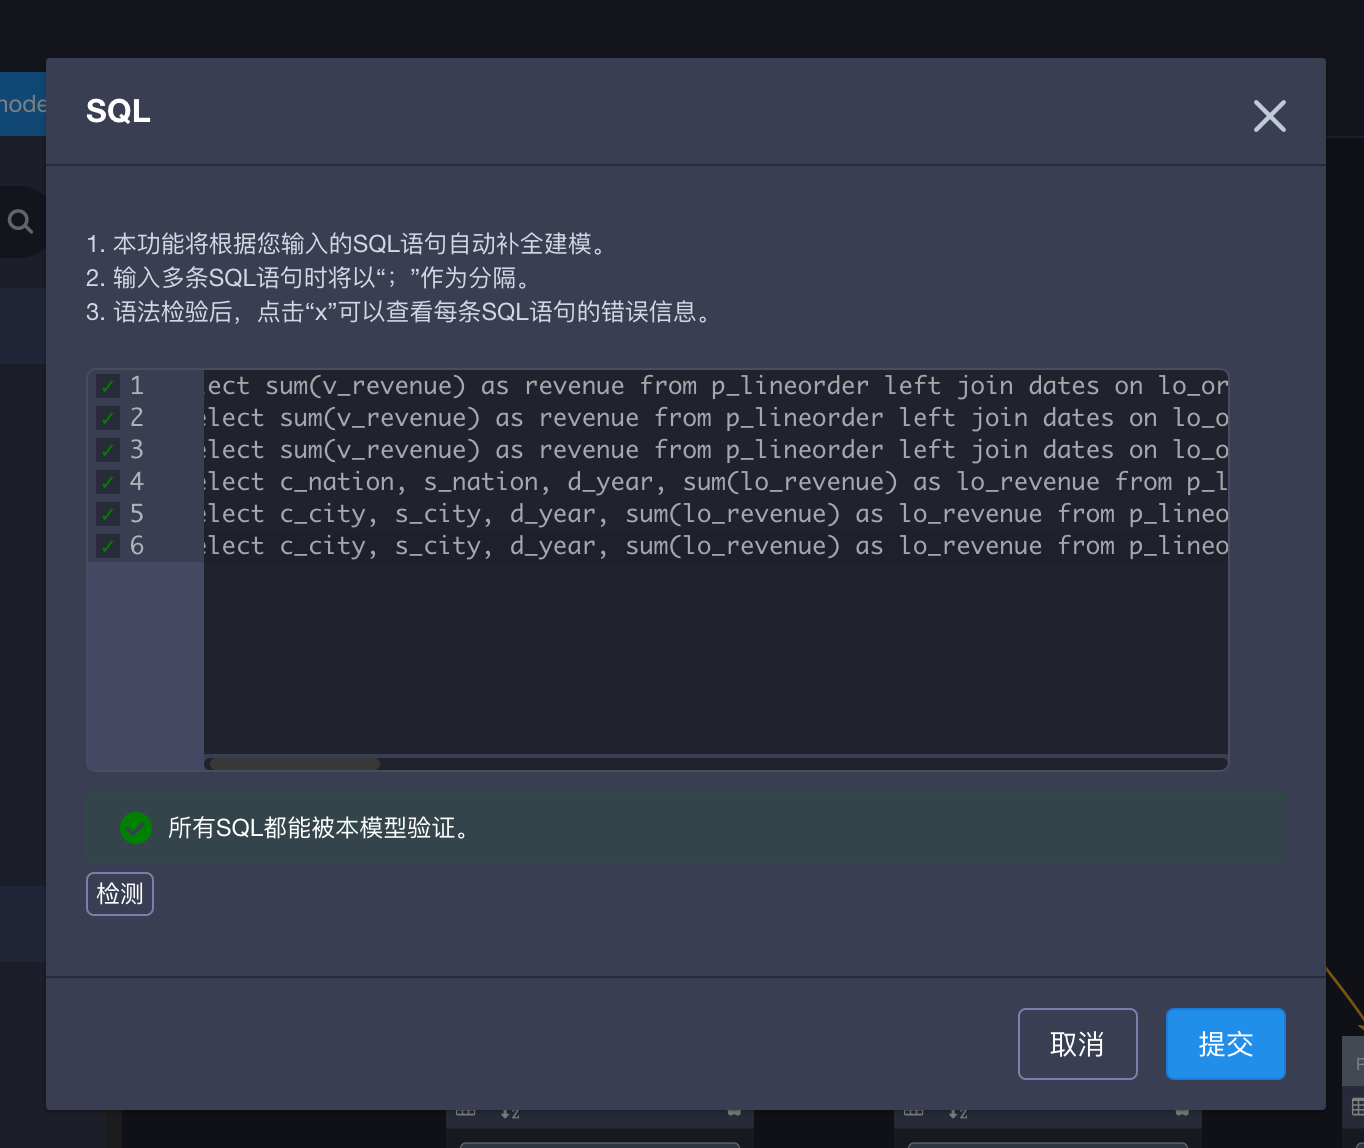
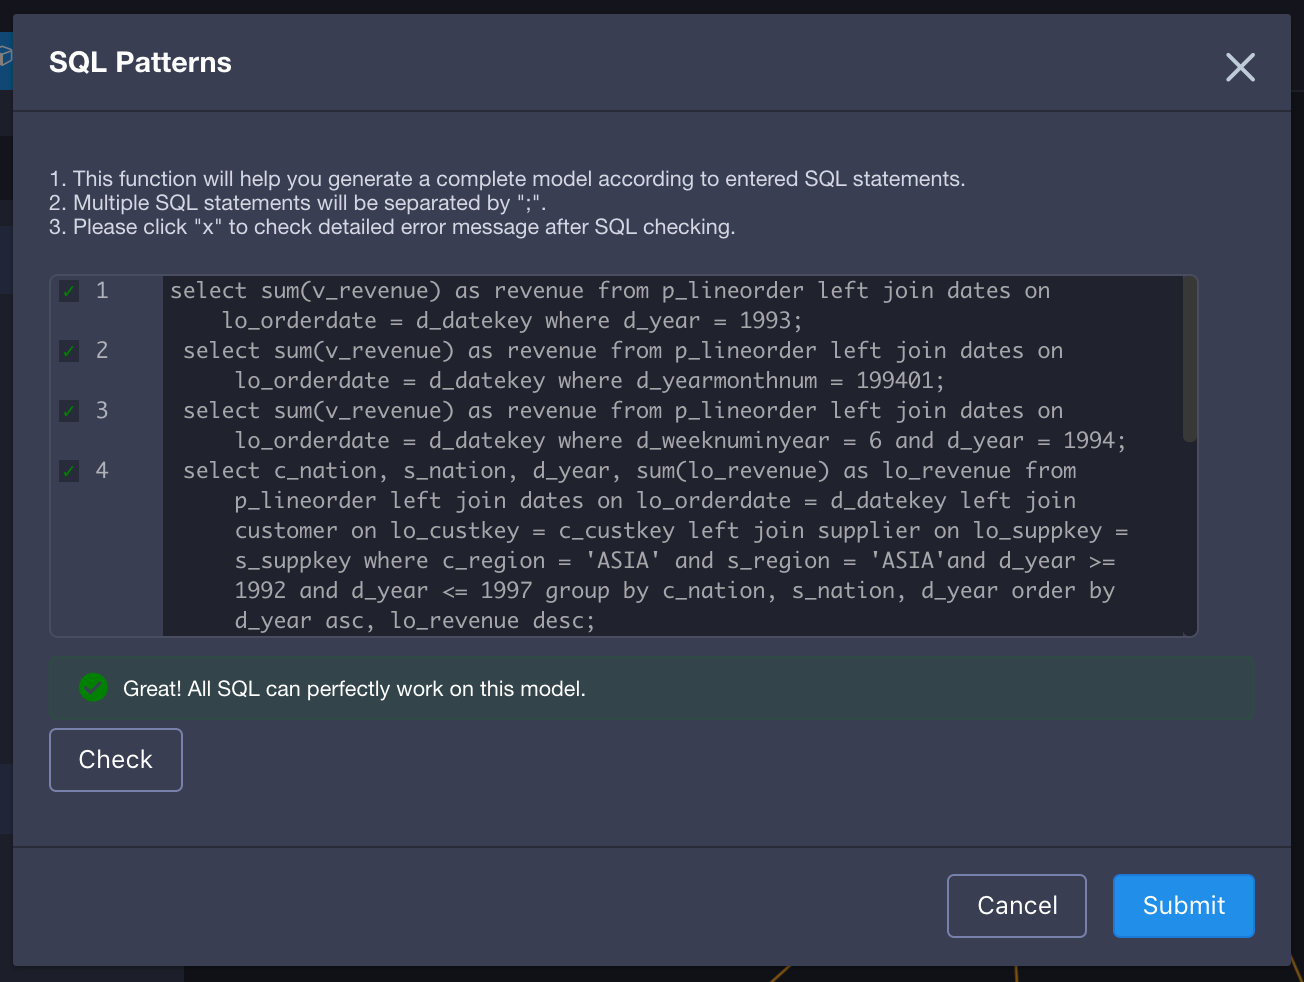
make up model_advisor

Changed region(s): [[0.0, 0.0, 1.0, 1.0], [0.6748, 0.1527, 0.7362, 0.2138], [0.5828, 0.1527, 0.6442, 0.2138]]

diff --git a/en/model/auto_modling.en.md b/en/model/auto_modling.en.md
@@ -1,23 +1,25 @@
-## Auto-Modeling
+## Modeling Advisor
 
 模型设计与创建是使用KAP的关键步骤。模型从0到1的部分，最为考验用户对业务逻辑和查询需求的理解。许多用户希望能够依据SQL查询语句，自动地创建好一个可用的模型，方便地进入后续的模型优化或调整中。从KAP 2.5开始，我们提供您根据指定的SQL查询语句与一张指定的事实表，自动的创建模型的能力。
 
-### Apply SQL to generate model
+### Apply SQL to generate  a desired model
 
-Step one, sync target tables to the project. 
+Step 1, sync target tables to the project. 
 
-![auto_sync_table](images/auto modeling/auto_sync_table.png)
+![sync table](images/auto modeling/auto_sync_table.png)
 
-第二步，将需要作为事实表的表拖入中央，并指定为事实表。点击事实表工具栏的“SQL”，将弹出一个可供输入查询语句的窗口。
+Step 2, drag one table, which will be the fact table, to the model designer and set it as *fact*. Click ***SQL*** button to pop up a dialog to collect your SQL statements. 
 
-![fact_table](images/auto modeling/fact_table.png)
+<!--Note that only fact table will have this button and SQL queries here inputed should be the SQL you would query later.-->
 
-![sql_window](images/auto modeling/sql_window.png)
+![set fact table](images/auto modeling/fact_table.png)
 
-第三步，输入你希望创建出来的模型能满足的查询语句，然后点击“检测”来确认这些SQL可以被正确的识别并输入KAP的计算引擎。如果全部正确识别，则如下图所示。
+![collect SQL](images/auto modeling/sql_window.png)
 
-![valid_SQL](images/auto modeling/valid_SQL.png)
+Step 3, enter the SQLs that would cross this model. You should ***check***  these SQLs to make sure which can be used to generate model, because only correctly recoganized ones can work. If all SQLs are right to the model advisor, the dialog would look as follow picture.
 
-第四步，提交已经通过检测的SQL，之后你将得到一个已经被补全的模型，如下图所示。如果您对这个模型还有更多的修改，需要添加SQL语句，则可以酌情重复前面三步直至您满意。
+![valid SQLs](images/auto modeling/valid_SQL.png)
 
-![auto_modeling](images/auto modeling/auto_modeling.png)
+Step 4, ***submit*** checked SQLs and you will get a initial model from your SQLs as below. Please do modify, check and re-submit SQLs via ***model advisor***.  When you find all good, save it.
+
+![model advisor complete once](images/auto modeling/auto_modeling.png)

diff --git a/en/SUMMARY.md b/en/SUMMARY.md
@@ -43,6 +43,7 @@
     * [Data Import](model/data_import.en.md)
     * [Data Sampling](model/data_sampling.en.md)
     * [Model Design](model/data_modeling.en.md)
+    * [Model Advisor](model/auto_modling.en.md)
     * [Computed Column](model/computed_column.en.md)
     * [Model Check](model/model_check.en.md)
     * [Cube Design](model/cube/README.md)
